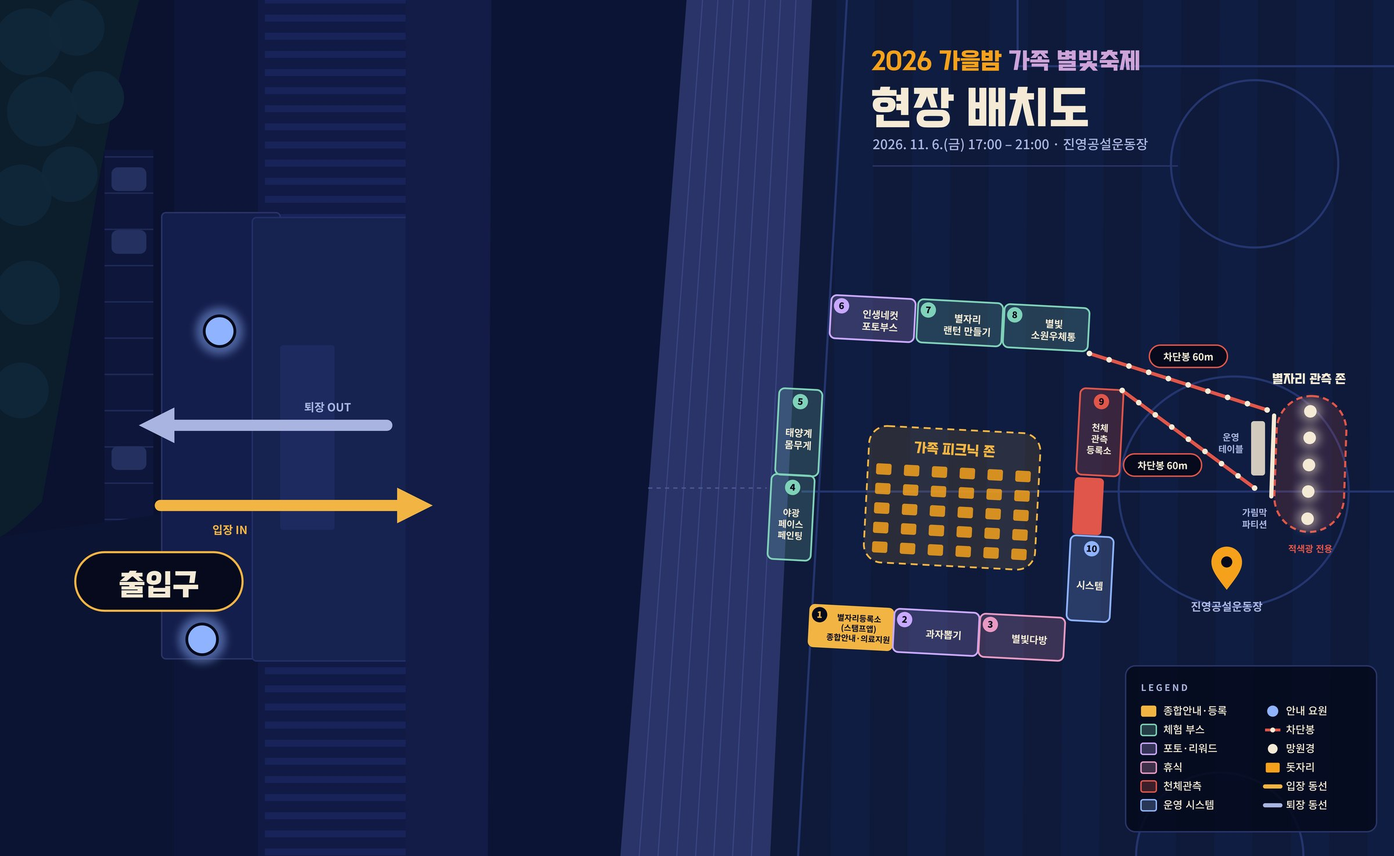
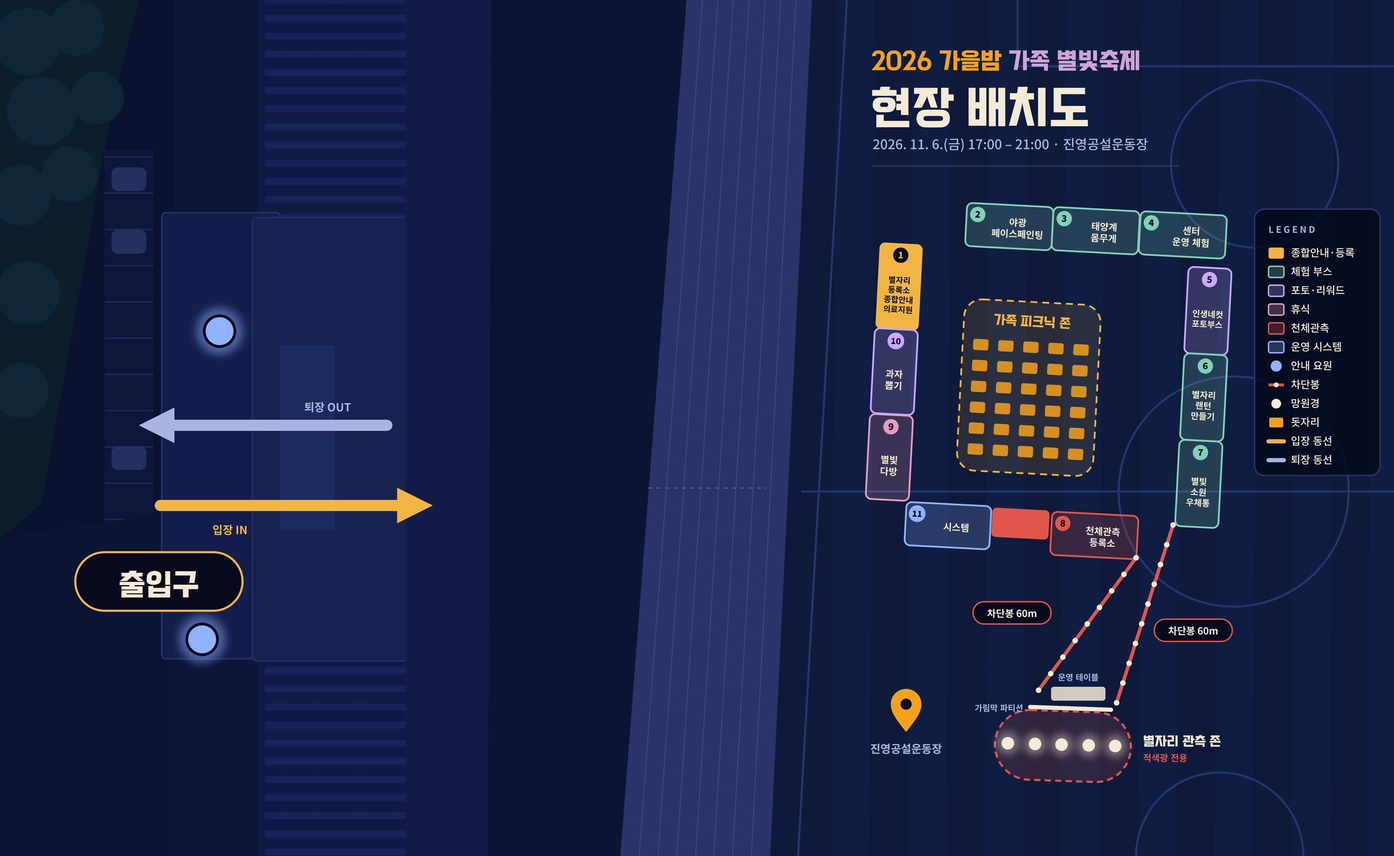
배치도 최종(11.3): 부스 전체 시계방향 90° 회전, 센터 운영 체험 추가, 번호 동선 순서로 재정리
- map.jpg·map-hires.png 교체 (관측존이 아래쪽으로)
- 번호: 1 등록소 2 야광 3 태양계 4 센터 운영 체험 5 인생네컷 6 랜턴 7 소원 우체통 8 천체관측 등록소 9 별빛다방 10 과자뽑기 11 운영 시스템
- 홈페이지 부스 안내·카드·본문 참조 번호 갱신, 센터 운영 체험 카드 추가
- 스탬프 앱 부스·리워드 번호 갱신, 센터 이름 통일(현황판 포함), 부스 목록 번호순 정렬 (QR 코드값·PIN 유지)

Claude-Session: https://claude.ai/code/session_01YGL7SyUzaxiPnVFnDGwjJ4

Changed region(s): [[0.5312, 0.2186, 1.0, 0.9993]]

diff --git a/index.html b/index.html
@@ -224,6 +224,8 @@ footer{padding-block:40px 56px;border-top:1px solid var(--line);color:var(--mute
 .ask .msg{font-size:14px;margin:0}
 .ask .msg.ok{color:var(--t2)}.ask .msg.err{color:var(--t4)}
 @media (max-width:860px){.board{grid-template-columns:1fr}}
+.booths::after{content:"";background:var(--sky);grid-column:span 2}
+@media (max-width:860px){.booths::after{display:none}}
 </style>
 
 </head>
@@ -296,7 +298,7 @@ footer{padding-block:40px 56px;border-top:1px solid var(--line);color:var(--mute
       <div class="axes">
         <div><b>별빛 관측 존</b><span>김해천문대 망원경 천체관측 5회차 · 자유관측 · 18:00 소등 세리머니</span></div>
         <div><b>별빛 문화공연</b><span>석양과 밤하늘 아래 잔잔한 어쿠스틱 · 피날레 랜턴 소등</span></div>
-        <div><b>별빛 체험 존</b><span>별자리 랜턴 · 태양계 몸무게 · 인생네컷 · 과자뽑기 · 스탬프 미션</span></div>
+        <div><b>별빛 체험 존</b><span>별자리 랜턴 · 태양계 몸무게 · 센터 운영 체험 · 인생네컷 · 과자뽑기 · 스탬프 미션</span></div>
         <div><b>가족 피크닉 존</b><span>운동장 한가운데 돗자리 자리 · 별빛다방 · 레크리에이션</span></div>
       </div>
     </div>
@@ -306,7 +308,7 @@ footer{padding-block:40px 56px;border-top:1px solid var(--line);color:var(--mute
     <div class="wrap">
       <div class="sh"><h2>행사일정</h2><p>해가 지는 순간부터 별이 뜨는 순간까지</p></div>
       <ol class="tt">
-        <li class="key" style="--c:#F2B56B"><span class="dot"></span><time>17:00</time><div><b>개장 · 관측권 배부 시작</b><span>천체관측 예약 가족은 ⑨ 천체관측 등록소에서 예약 확인 후 색깔 관측권 수령. 별빛 체험 존 동시 개장</span></div></li>
+        <li class="key" style="--c:#F2B56B"><span class="dot"></span><time>17:00</time><div><b>개장 · 관측권 배부 시작</b><span>천체관측 예약 가족은 ⑧ 천체관측 등록소에서 예약 확인 후 색깔 관측권 수령. 별빛 체험 존 동시 개장</span></div></li>
         <li style="--c:#EFA06A"><span class="dot"></span><time>17:05</time><div><b>별빛 문화공연 1부 · 어쿠스틱</b><span>석양 무렵의 첫 무대, 스탬프 미션 시작</span></div></li>
         <li style="--c:#DB8370"><span class="dot"></span><time>17:30</time><div><b>해넘이</b><span>가족 피크닉 존에서 해 지는 하늘을 함께 봅니다</span></div></li>
         <li style="--c:#A9677F"><span class="dot"></span><time>17:45</time><div><b>개회식</b><span>15분</span></div></li>
@@ -320,22 +322,23 @@ footer{padding-block:40px 56px;border-top:1px solid var(--line);color:var(--mute
       <p class="note" style="margin-top:16px">행사 일정은 현장 상황과 기상에 따라 일부 바뀔 수 있습니다.</p>
 
       <h3 style="margin-top:56px">현장 배치도</h3>
-      <a class="mapimg" href="map-hires.png" target="_blank" rel="noopener" aria-label="현장 배치도 크게 보기"><img src="map.jpg" alt="진영공설운동장 현장 배치도. 왼쪽 출입구에서 입장·퇴장 동선이 나뉘고, 가운데 가족 피크닉 존(돗자리)을 1~8번 부스가 둘러싸며, 오른쪽에 9번 천체관측 등록소와 망원경 5대가 놓인 별자리 관측 존이 있습니다." width="2400" height="1473" loading="lazy"></a>
+      <a class="mapimg" href="map-hires.png" target="_blank" rel="noopener" aria-label="현장 배치도 크게 보기"><img src="map.jpg" alt="진영공설운동장 현장 배치도. 왼쪽 출입구에서 입장·퇴장 동선이 나뉘고, 가운데 가족 피크닉 존(돗자리)을 1~11번 부스가 둘러쌉니다. 왼쪽 줄에 등록소·과자뽑기·별빛다방, 위쪽 줄에 체험부스, 오른쪽 줄에 인생네컷·랜턴·소원 우체통, 아래쪽 줄에 천체관측 등록소가 있고, 그 아래에 망원경 5대가 놓인 별자리 관측 존이 있습니다." width="2400" height="1473" loading="lazy"></a>
       <p class="note" style="margin-top:8px">배치도를 누르면 고해상도로 크게 볼 수 있어요. 실제 배치는 현장 여건에 따라 조금 달라질 수 있습니다.</p>
       <div class="legend" aria-hidden="true">
         <span class="c-info"><i></i>종합안내·등록</span><span class="c-exp"><i></i>체험 부스</span><span class="c-photo"><i></i>포토·리워드</span><span class="c-rest"><i></i>휴식</span><span class="c-obs"><i></i>천체관측</span><span class="c-sys"><i></i>운영 시스템</span>
       </div>
       <ol class="bmap" aria-label="부스 번호 안내">
         <li class="c-info"><b class="num">1</b><span>별자리등록소(스탬프맵) · 종합안내 · 의료지원<small>스탬프맵 받기, 행사 안내, 미아 보호, 응급 처치</small></span></li>
-        <li class="c-photo"><b class="num">2</b><span>과자뽑기<small>미션 코인으로 과자 뽑기 · 리워드 교환처</small></span></li>
-        <li class="c-rest"><b class="num">3</b><span>별빛다방<small>따뜻한 음료, 추울 때 쉬어 가는 곳</small></span></li>
-        <li class="c-exp"><b class="num">4</b><span>야광 페이스페인팅<small>어두워질수록 빛나는 무늬</small></span></li>
-        <li class="c-exp"><b class="num">5</b><span>태양계 몸무게<small>리워드 미션 ②</small></span></li>
-        <li class="c-photo"><b class="num">6</b><span>인생네컷 포토부스<small>운영 시간 내 무제한</small></span></li>
-        <li class="c-exp"><b class="num">7</b><span>별자리 랜턴 만들기<small>피날레 소등 때 함께 써요</small></span></li>
-        <li class="c-exp"><b class="num">8</b><span>별빛 소원 우체통<small>1년 뒤 배달되는 가족 엽서</small></span></li>
-        <li class="c-obs"><b class="num">9</b><span>천체관측 등록소<small>예약 확인 · 회차별 관측권 배부 · 결원 시 현장 접수</small></span></li>
-        <li class="c-sys"><b class="num">10</b><span>운영 시스템<small>행사 운영석</small></span></li>
+        <li class="c-exp"><b class="num">2</b><span>야광 페이스페인팅<small>어두워질수록 빛나는 무늬</small></span></li>
+        <li class="c-exp"><b class="num">3</b><span>태양계 몸무게<small>리워드 미션 ②</small></span></li>
+        <li class="c-exp"><b class="num">4</b><span>센터 운영 체험<small>스탬프 투어 부스</small></span></li>
+        <li class="c-photo"><b class="num">5</b><span>인생네컷 포토부스<small>운영 시간 내 무제한</small></span></li>
+        <li class="c-exp"><b class="num">6</b><span>별자리 랜턴 만들기<small>피날레 소등 때 함께 써요</small></span></li>
+        <li class="c-exp"><b class="num">7</b><span>별빛 소원 우체통<small>1년 뒤 배달되는 가족 엽서</small></span></li>
+        <li class="c-obs"><b class="num">8</b><span>천체관측 등록소<small>예약 확인 · 회차별 관측권 배부 · 결원 시 현장 접수</small></span></li>
+        <li class="c-rest"><b class="num">9</b><span>별빛다방<small>따뜻한 음료, 추울 때 쉬어 가는 곳</small></span></li>
+        <li class="c-photo"><b class="num">10</b><span>과자뽑기<small>미션 코인으로 과자 뽑기 · 리워드 교환처</small></span></li>
+        <li class="c-sys"><b class="num">11</b><span>운영 시스템<small>행사 운영석</small></span></li>
       </ol>
       <ul class="zones" style="margin-top:24px">
         <li><b>★</b><span><strong>별자리 관측 존</strong> — 망원경 5대. 적색광만 사용하고, 차단봉과 가림막 파티션으로 구분된 공간입니다. 관측권 회차에 맞춰 안내에 따라 입장해요</span></li>
@@ -371,12 +374,12 @@ footer{padding-block:40px 56px;border-top:1px solid var(--line);color:var(--mute
           <h3>참여 방법</h3>
           <ol class="steps">
             <li><span><b>김해시공공예약 포털에서 예약</b><br><span class="note">선착순으로 회차를 골라 신청합니다. 포스터의 QR로도 들어갈 수 있어요.</span><br><a class="btn solid" href="https://m.site.naver.com/2iGAe" target="_blank" rel="noopener" style="margin-top:8px;padding:8px 16px;font-size:14px">예약 페이지 열기 ↗</a></span></li>
-            <li><span><b>당일 ⑨ 천체관측 등록소에서 색깔 관측권 받기</b><br><span class="note">17:00부터 예약 확인 후 회차별 관측권을 드립니다.</span></span></li>
+            <li><span><b>당일 ⑧ 천체관측 등록소에서 색깔 관측권 받기</b><br><span class="note">17:00부터 예약 확인 후 회차별 관측권을 드립니다.</span></span></li>
             <li><span><b>회차 시작 5분 전, 관측존 입구 집결</b><br><span class="note">큰 화면으로 오늘 볼 별을 먼저 보고, 가족 단위로 망원경을 돌며 관측합니다.</span></span></li>
           </ol>
           <div class="box" style="margin-top:20px">
             <b>예약을 못 했어도 괜찮아요</b>
-            <p class="note" style="margin:6px 0 0">관측존 옆 자유관측 망원경은 신청 없이 줄 서서 볼 수 있습니다(18:10~19:50). 예약 취소나 불참으로 결원이 생긴 회차는 당일 ⑨ 천체관측 등록소에서 일부 현장 접수하고, 회차 시작 시각까지 오지 않은 자리는 현장 대기 가족에게 순서대로 넘겨 드립니다.</p>
+            <p class="note" style="margin:6px 0 0">관측존 옆 자유관측 망원경은 신청 없이 줄 서서 볼 수 있습니다(18:10~19:50). 예약 취소나 불참으로 결원이 생긴 회차는 당일 ⑧ 천체관측 등록소에서 일부 현장 접수하고, 회차 시작 시각까지 오지 않은 자리는 현장 대기 가족에게 순서대로 넘겨 드립니다.</p>
           </div>
         </div>
       </div>
@@ -385,14 +388,15 @@ footer{padding-block:40px 56px;border-top:1px solid var(--line);color:var(--mute
       <p class="note">신청 없이 자유롭게 참여하세요. 운영 17:00~21:00</p>
       <div class="booths" style="margin-top:16px">
         <div class="booth c-info"><span class="no">1</span><span class="cat">종합안내·등록</span><h4>별자리등록소 (스탬프맵)</h4><p>가족 수만큼 별을 찍어 ‘우리 가족 별자리’를 만들고, 스탬프맵을 받아 미션을 시작해요. 종합안내와 의료지원도 이곳에서 합니다.</p><span class="rw">리워드 ① 시작</span></div>
-        <div class="booth c-photo"><span class="no">2</span><span class="cat">포토·리워드</span><h4>과자뽑기</h4><p>미션으로 받은 코인으로 뽑기 기계에서 과자를 뽑아요. 리워드 교환처입니다.</p><span class="rw">간식</span></div>
-        <div class="booth c-rest"><span class="no">3</span><span class="cat">휴식</span><h4>별빛다방</h4><p>코코아·유자차 등 따뜻한 음료. 추울 때 쉬어 가는 곳.</p></div>
-        <div class="booth c-exp"><span class="no">4</span><span class="cat">체험</span><h4>야광 페이스페인팅</h4><p>어두워질수록 빛나는 별·달·행성 무늬.</p></div>
-        <div class="booth c-exp"><span class="no">5</span><span class="cat">체험</span><h4>태양계 몸무게</h4><p>목성에서 우리 가족 몸무게 합은? 먼저 맞혀 보고 저울로 확인해요.</p><span class="rw">리워드 ②</span></div>
-        <div class="booth c-photo"><span class="no">6</span><span class="cat">포토·리워드</span><h4>인생네컷 포토부스</h4><p>행사 전용 프레임으로 찍는 가족 네컷 사진. 운영 시간 내 무제한.</p></div>
-        <div class="booth c-exp"><span class="no">7</span><span class="cat">체험</span><h4>별자리 랜턴 만들기</h4><p>원통에 가을 별자리 구멍을 뚫고 불을 켜면 벽에 별자리가 비칩니다. 피날레 소등 때 함께 써요.</p></div>
-        <div class="booth c-exp"><span class="no">8</span><span class="cat">체험</span><h4>별빛 소원 우체통</h4><p>가족 엽서를 쓰면 1년 뒤 2027년 11월에 배달됩니다.</p></div>
-        <div class="booth c-obs"><span class="no">9</span><span class="cat">천체관측</span><h4>천체관측 등록소</h4><p>예약 확인 후 회차별 색깔 관측권을 드려요. 결원이 생기면 일부 현장 접수도 이곳에서 합니다.</p></div>
+        <div class="booth c-exp"><span class="no">2</span><span class="cat">체험</span><h4>야광 페이스페인팅</h4><p>어두워질수록 빛나는 별·달·행성 무늬.</p></div>
+        <div class="booth c-exp"><span class="no">3</span><span class="cat">체험</span><h4>태양계 몸무게</h4><p>목성에서 우리 가족 몸무게 합은? 먼저 맞혀 보고 저울로 확인해요.</p><span class="rw">리워드 ②</span></div>
+        <div class="booth c-exp"><span class="no">4</span><span class="cat">체험</span><h4>센터 운영 체험</h4><p>스탬프 투어 부스입니다. 체험 내용은 현장에서 안내해 드려요.</p></div>
+        <div class="booth c-photo"><span class="no">5</span><span class="cat">포토·리워드</span><h4>인생네컷 포토부스</h4><p>행사 전용 프레임으로 찍는 가족 네컷 사진. 운영 시간 내 무제한.</p></div>
+        <div class="booth c-exp"><span class="no">6</span><span class="cat">체험</span><h4>별자리 랜턴 만들기</h4><p>원통에 가을 별자리 구멍을 뚫고 불을 켜면 벽에 별자리가 비칩니다. 피날레 소등 때 함께 써요.</p></div>
+        <div class="booth c-exp"><span class="no">7</span><span class="cat">체험</span><h4>별빛 소원 우체통</h4><p>가족 엽서를 쓰면 1년 뒤 2027년 11월에 배달됩니다.</p></div>
+        <div class="booth c-obs"><span class="no">8</span><span class="cat">천체관측</span><h4>천체관측 등록소</h4><p>예약 확인 후 회차별 색깔 관측권을 드려요. 결원이 생기면 일부 현장 접수도 이곳에서 합니다.</p></div>
+        <div class="booth c-rest"><span class="no">9</span><span class="cat">휴식</span><h4>별빛다방</h4><p>코코아·유자차 등 따뜻한 음료. 추울 때 쉬어 가는 곳.</p></div>
+        <div class="booth c-photo"><span class="no">10</span><span class="cat">포토·리워드</span><h4>과자뽑기</h4><p>미션으로 받은 코인으로 뽑기 기계에서 과자를 뽑아요. 리워드 교환처입니다.</p><span class="rw">간식</span></div>
       </div>
 
       <div class="two">
@@ -400,7 +404,7 @@ footer{padding-block:40px 56px;border-top:1px solid var(--line);color:var(--mute
           <h3>리워드 미션</h3>
           <p><b>① 별자리 스탬프 미션</b><br><span class="note">① 별자리등록소에서 스탬프맵 받기 → 체험부스 4곳 이상 스탬프 → 만족도 조사 작성 → 과자뽑기 코인 2개 (가족당 1회)</span></p>
           <p><b>② 태양계 몸무게 챌린지</b><br><span class="note">목성에서의 가족 몸무게 합 예측 → 저울로 확인 → 오차 10% 이내면 코인 1개. 참여 가족 모두 야광 별 스티커</span></p>
-          <p class="note" style="margin:0">코인은 ② 과자뽑기 부스의 뽑기 기계에서 과자를 뽑는 데 씁니다. 간식이 모두 나가면 교환을 마감하고 스티커로 대신하며, 못 뽑은 아이에게는 야광 별 스티커를 드립니다. 리워드 교환 마감 20:40.</p>
+          <p class="note" style="margin:0">코인은 ⑩ 과자뽑기 부스의 뽑기 기계에서 과자를 뽑는 데 씁니다. 간식이 모두 나가면 교환을 마감하고 스티커로 대신하며, 못 뽑은 아이에게는 야광 별 스티커를 드립니다. 리워드 교환 마감 20:40.</p>
         </div>
         <div class="box">
           <h3>별빛 문화공연 · 가족 피크닉 존</h3>
@@ -442,7 +446,7 @@ footer{padding-block:40px 56px;border-top:1px solid var(--line);color:var(--mute
           <ul>
             <li>아이들에게 야광 손목밴드를 채워 드립니다. 보호자 연락처를 적어 주세요.</li>
             <li>아이를 잃어버렸거나 다친 사람이 있으면 ① 종합안내·의료지원 부스나 가까운 안내 요원에게 알려 주세요.</li>
-            <li>행사장 내에는 외부음식물 반입을 금지합니다. 따뜻한 음료는 ③ 별빛다방을 이용해 주세요.</li>
+            <li>행사장 내에는 외부음식물 반입을 금지합니다. 따뜻한 음료는 ⑨ 별빛다방을 이용해 주세요.</li>
             <li>행사 현장은 영상으로 기록됩니다.</li>
           </ul>
         </div>
@@ -481,12 +485,12 @@ footer{padding-block:40px 56px;border-top:1px solid var(--line);color:var(--mute
       <div class="board">
         <div class="faq">
           <h3>자주 묻는 질문</h3>
-          <details open><summary>천체관측은 미리 신청해야 하나요?</summary><p>네. 천체관측체험만 <a href="https://m.site.naver.com/2iGAe" target="_blank" rel="noopener">김해시공공예약 포털</a>에서 선착순으로 사전 예약합니다. 행사 당일 17:00부터 ⑨ 천체관측 등록소에서 예약을 확인하고 회차별 색깔 관측권을 드려요. 공연·체험·피크닉은 신청 없이 참여할 수 있습니다.</p></details>
-          <details><summary>예약을 못 하면 망원경을 볼 수 없나요?</summary><p>관측존 옆 자유관측 망원경은 신청 없이 줄 서서 볼 수 있습니다(18:10~19:50). 결원이 생긴 회차는 당일 ⑨ 천체관측 등록소에서 일부 현장 접수하고, 회차 시작 시각까지 오지 않은 자리는 현장에서 기다리는 가족에게 순서대로 넘겨 드립니다.</p></details>
-          <details><summary>체험부스도 신청해야 하나요?</summary><p>아니요. 체험부스, 공연, 피크닉 존, 인생네컷은 신청 없이 자유롭게 이용합니다. 스탬프 미션을 완료하면 ② 과자뽑기 코인을 드려요.</p></details>
+          <details open><summary>천체관측은 미리 신청해야 하나요?</summary><p>네. 천체관측체험만 <a href="https://m.site.naver.com/2iGAe" target="_blank" rel="noopener">김해시공공예약 포털</a>에서 선착순으로 사전 예약합니다. 행사 당일 17:00부터 ⑧ 천체관측 등록소에서 예약을 확인하고 회차별 색깔 관측권을 드려요. 공연·체험·피크닉은 신청 없이 참여할 수 있습니다.</p></details>
+          <details><summary>예약을 못 하면 망원경을 볼 수 없나요?</summary><p>관측존 옆 자유관측 망원경은 신청 없이 줄 서서 볼 수 있습니다(18:10~19:50). 결원이 생긴 회차는 당일 ⑧ 천체관측 등록소에서 일부 현장 접수하고, 회차 시작 시각까지 오지 않은 자리는 현장에서 기다리는 가족에게 순서대로 넘겨 드립니다.</p></details>
+          <details><summary>체험부스도 신청해야 하나요?</summary><p>아니요. 체험부스, 공연, 피크닉 존, 인생네컷은 신청 없이 자유롭게 이용합니다. 스탬프 미션을 완료하면 ⑩ 과자뽑기 코인을 드려요.</p></details>
           <details><summary>비가 오거나 흐리면 어떻게 되나요?</summary><p>흐리면 밝은 천체 위주로 관측하고, 어려운 회차는 큰 화면 천체영상과 별자리 해설로 진행합니다. 비나 강풍이면 김해시청소년수련관 실내로 옮기거나 일정을 미룹니다. 기상 판단은 11. 4.(수) 18:00 1차, 당일 12:00 최종으로 하며 결과를 공지합니다.</p></details>
           <details><summary>무엇을 챙겨 가면 좋을까요?</summary><p>11월 저녁 야외라 꽤 춥습니다. 돗자리와, 필요에 따라 따뜻한 겉옷과 담요를 챙겨 주세요. 현장에서 핫팩을 나눠 드리고 무릎담요를 수량 한정으로 빌려 드립니다.</p></details>
-          <details><summary>음식을 가져가도 되나요?</summary><p>행사장 내에는 외부음식물 반입을 금지합니다. 따뜻한 음료는 ③ 별빛다방에서, 과자는 스탬프 미션 후 ② 과자뽑기에서 받을 수 있어요.</p></details>
+          <details><summary>음식을 가져가도 되나요?</summary><p>행사장 내에는 외부음식물 반입을 금지합니다. 따뜻한 음료는 ⑨ 별빛다방에서, 과자는 스탬프 미션 후 ⑩ 과자뽑기에서 받을 수 있어요.</p></details>
           <details><summary>주차할 곳이 있나요?</summary><p>운동장 주차장과 인근 주차 공간을 이용할 수 있지만 넉넉하지 않습니다. 가까운 분은 걸어서 와 주세요. 21:00 종료 후 10분간은 걷는 분이 먼저 나가고 차량은 순서대로 나갑니다.</p></details>
           <details><summary>아이를 잃어버리면 어디로 가야 하나요?</summary><p>아이들에게 보호자 연락처를 적는 야광 손목밴드를 채워 드립니다. 아이를 찾을 때는 ① 종합안내 부스나 가까운 안내 요원에게 알려 주세요. 현장 방송과 전 부스가 함께 찾습니다.</p></details>
         </div>

diff --git a/stamp/index.html b/stamp/index.html
@@ -209,8 +209,8 @@ textarea{min-height:88px;resize:vertical}
   </section>
   <div class="steps">
     <div class="step"><span class="n">1</span><div><b>체험하고 QR 찍기</b><span>체험이 끝나면 부스의 스탬프 QR을 찍어요</span></div></div>
-    <div class="step"><span class="n">2</span><div><b>별 3개 → 과자뽑기</b><span>② 과자뽑기 부스에서 한 번 뽑을 수 있어요</span></div></div>
-    <div class="step"><span class="n">3</span><div><b>별 5개 → 별빛다방 음료</b><span>③ 별빛다방에서 따뜻한 음료 한 잔</span></div></div>
+    <div class="step"><span class="n">2</span><div><b>별 3개 → 과자뽑기</b><span>⑩ 과자뽑기 부스에서 한 번 뽑을 수 있어요</span></div></div>
+    <div class="step"><span class="n">3</span><div><b>별 5개 → 별빛다방 음료</b><span>⑨ 별빛다방에서 따뜻한 음료 한 잔</span></div></div>
     <div class="step"><span class="n">4</span><div><b>만족도 조사 → 완주 배지</b><span>1분이면 끝나요. 내년 축제에 꼭 반영할게요</span></div></div>
   </div>
 
@@ -326,17 +326,17 @@ var KEY = 'starlight-stamp-2026', QKEY = 'starlight-queue-2026', PKEY = 'starlig
 
 /* ---------- 부스·리워드 정의 (QR 코드값 / 4자리 번호) ---------- */
 var BOOTHS = [
-  {code:'SOL',   key:'SOL-3QX8',  pin:'5310', no:'5', name:'태양계 몸무게',     d:'목성에서 우리 가족 몸무게는?', c:'#7FD1B9', x:46,  y:176},
-  {code:'GLOW',  key:'GLOW-2HV6', pin:'8626', no:'4', name:'야광 페이스페인팅', d:'어둠 속에서 빛나는 별 무늬',     c:'#7FD1B9', x:98,  y:118},
-  {code:'LAMP',  key:'LAMP-K5T9', pin:'7519', no:'7', name:'별자리 랜턴 만들기', d:'불을 켜면 벽에 별자리가',     c:'#7FD1B9', x:160, y:146},
-  {code:'WISH',  key:'WISH-7RM2', pin:'4207', no:'8', name:'별빛 소원 우체통',  d:'1년 뒤 배달되는 가족 엽서',     c:'#7FD1B9', x:214, y:92},
-  {code:'SNAP',  key:'SNAP-9WC4', pin:'6094', no:'6', name:'인생네컷 포토부스', d:'행사 전용 프레임 가족 네컷',     c:'#C9A8FF', x:272, y:58},
-  {code:'SCOPE', key:'SCOPE-4NB7',pin:'9473', no:'9', name:'천체관측',          d:'관측 존 망원경으로 가을 밤하늘', c:'#E0564A', x:312, y:132},
-  {code:'CENTER',key:'CNTR-6JD3', pin:'1163', no:'★', name:'센터 만들기 체험',  d:'위치는 현장 안내를 확인해 주세요', c:'#F2B544', x:258, y:196}
+  {code:'SOL',   key:'SOL-3QX8',  pin:'5310', no:'3', name:'태양계 몸무게',     d:'목성에서 우리 가족 몸무게는?', c:'#7FD1B9', x:46,  y:176},
+  {code:'GLOW',  key:'GLOW-2HV6', pin:'8626', no:'2', name:'야광 페이스페인팅', d:'어둠 속에서 빛나는 별 무늬',     c:'#7FD1B9', x:98,  y:118},
+  {code:'LAMP',  key:'LAMP-K5T9', pin:'7519', no:'6', name:'별자리 랜턴 만들기', d:'불을 켜면 벽에 별자리가',     c:'#7FD1B9', x:160, y:146},
+  {code:'WISH',  key:'WISH-7RM2', pin:'4207', no:'7', name:'별빛 소원 우체통',  d:'1년 뒤 배달되는 가족 엽서',     c:'#7FD1B9', x:214, y:92},
+  {code:'SNAP',  key:'SNAP-9WC4', pin:'6094', no:'5', name:'인생네컷 포토부스', d:'행사 전용 프레임 가족 네컷',     c:'#C9A8FF', x:272, y:58},
+  {code:'SCOPE', key:'SCOPE-4NB7',pin:'9473', no:'8', name:'천체관측',          d:'관측 존 망원경으로 가을 밤하늘', c:'#E0564A', x:312, y:132},
+  {code:'CENTER',key:'CNTR-6JD3', pin:'1163', no:'4', name:'센터 운영 체험',    d:'태양계 몸무게 옆 ④번 부스', c:'#F2B544', x:258, y:196}
 ];
 var REWARDS = [
-  {code:'SNACK', key:'SNACK-5PL8', pin:'2258', no:'2', name:'과자뽑기',  need:3, ic:'🍬', where:'② 과자뽑기 부스', what:'과자뽑기 1회'},
-  {code:'CAFE',  key:'CAFE-8ZQ1',  pin:'3381', no:'3', name:'별빛다방',  need:5, ic:'☕', where:'③ 별빛다방',     what:'따뜻한 음료 1잔'}
+  {code:'SNACK', key:'SNACK-5PL8', pin:'2258', no:'10', name:'과자뽑기',  need:3, ic:'🍬', where:'⑩ 과자뽑기 부스', what:'과자뽑기 1회'},
+  {code:'CAFE',  key:'CAFE-8ZQ1',  pin:'3381', no:'9', name:'별빛다방',  need:5, ic:'☕', where:'⑨ 별빛다방',     what:'따뜻한 음료 1잔'}
 ];
 var LINES = [[0,1],[1,2],[2,3],[3,4],[4,5],[5,6],[6,2]];
 
@@ -427,7 +427,7 @@ function render(justCode){
     return '<div class="rw '+(used?'used':(on?'on':''))+'"><div class="ic">'+r.ic+'</div><div style="flex:1;min-width:0"><b>'+r.name+' 이용권</b><div class="s">'+(used?r.what+' · 사용했어요':(on?r.where+'에서 직원 확인 후 <b style="color:var(--hl)">인증 QR</b>을 찍어 주세요':'스탬프 '+r.need+'개를 모으면 열려요'))+'</div>'+(used||on?'':'<div class="bar"><i style="width:'+pct+'%"></i></div>')+'</div><span class="st">'+st+'</span></div>';
   }).join('');
   // 부스 목록
-  $('boothList').innerHTML=BOOTHS.map(function(b){var t=S.stamps[b.code];
+  $('boothList').innerHTML=BOOTHS.slice().sort(function(x,y){return x.no-y.no}).map(function(b){var t=S.stamps[b.code];
     return '<div class="bt '+(t?'got':'')+'" style="--c:'+b.c+'"><span class="no">'+b.no+'</span><div class="tx"><b>'+b.name+'</b><div class="d">'+b.d+'</div></div><span class="ok">'+(t?'★ '+hhmm(t):'미참여')+'</span></div>'}).join('');
   var cafe=S.rewards.CAFE;
   $('surveyBanner').classList.toggle('hidden',!(cafe&&!S.survey));
@@ -444,7 +444,7 @@ function drawSky(justCode){
     svg+='<g class="'+(on?'lit':'')+'">';
     if(on) svg+='<circle cx="'+b.x+'" cy="'+b.y+'" r="18" fill="#F4E33A" opacity=".18"/>';
     svg+='<path class="star-dot'+(justCode===b.code?' just':'')+'" d="'+starPath(b.x,b.y,on?11:7,on?4.6:3)+'" fill="'+(on?'#F4E33A':'#3A4580')+'" stroke="'+(on?'#fff':'#5A66A8')+'" stroke-width="'+(on?1:.8)+'"/>';
-    svg+='<text class="lbl-s" x="'+b.x+'" y="'+ly+'" text-anchor="middle">'+esc(b.name.replace(' 포토부스','').replace(' 만들기 체험',' 만들기').replace(' 페이스페인팅',' 페인팅'))+'</text></g>';
+    svg+='<text class="lbl-s" x="'+b.x+'" y="'+ly+'" text-anchor="middle">'+esc(b.name.replace(' 포토부스','').replace(' 페이스페인팅',' 페인팅'))+'</text></g>';
   });
   $('skySvg').innerHTML=svg;
 }

diff --git a/stamp/admin.html b/stamp/admin.html
@@ -116,7 +116,7 @@ function draw(d){
   var snack=(d.reward||{})['과자뽑기']||0, cafe=(d.reward||{})['별빛다방']||0;
   $('kpis').innerHTML=kpi('등록 가족',t.families,'팀')+kpi('총 참여 인원',t.people,'명<small class="blk">어른 '+t.adults+' · 어린이 '+t.kids+'</small>')+kpi('찍힌 스탬프',t.stamps,'개')+kpi('과자뽑기 사용',snack,'가족')+kpi('별빛다방 사용',cafe,'가족')+kpi('만족도 응답',t.surveys,'건')+kpi('전반적 만족도',av.overall,'/ 5')+kpi('추천지수 NPS',sv.nps,sv.npsN?'('+sv.npsN+'명)':'');
   var g='';
-  var BN=['태양계 몸무게','별빛 소원 우체통','별자리 랜턴 만들기','야광 페이스페인팅','인생네컷 포토부스','천체관측','센터 만들기 체험'],bo={};BN.forEach(function(n){bo[n]=(d.booth||{})[n]||0});
+  var BN=['태양계 몸무게','별빛 소원 우체통','별자리 랜턴 만들기','야광 페이스페인팅','인생네컷 포토부스','천체관측','센터 운영 체험'],bo={};BN.forEach(function(n){bo[n]=(d.booth||{})[n]||0});
   g+=bars('부스별 스탬프 (참여 가족 수)',bo,{c:'var(--mint)'});
   g+=bars('가족당 스탬프 개수 분포',d.dist,{order:['1개','2개','3개','4개','5개','6개','7개'],c:'var(--blue)',pct:true});
   g+=cols('시간대별 스탬프 (30분 단위)',d.stampTime);
